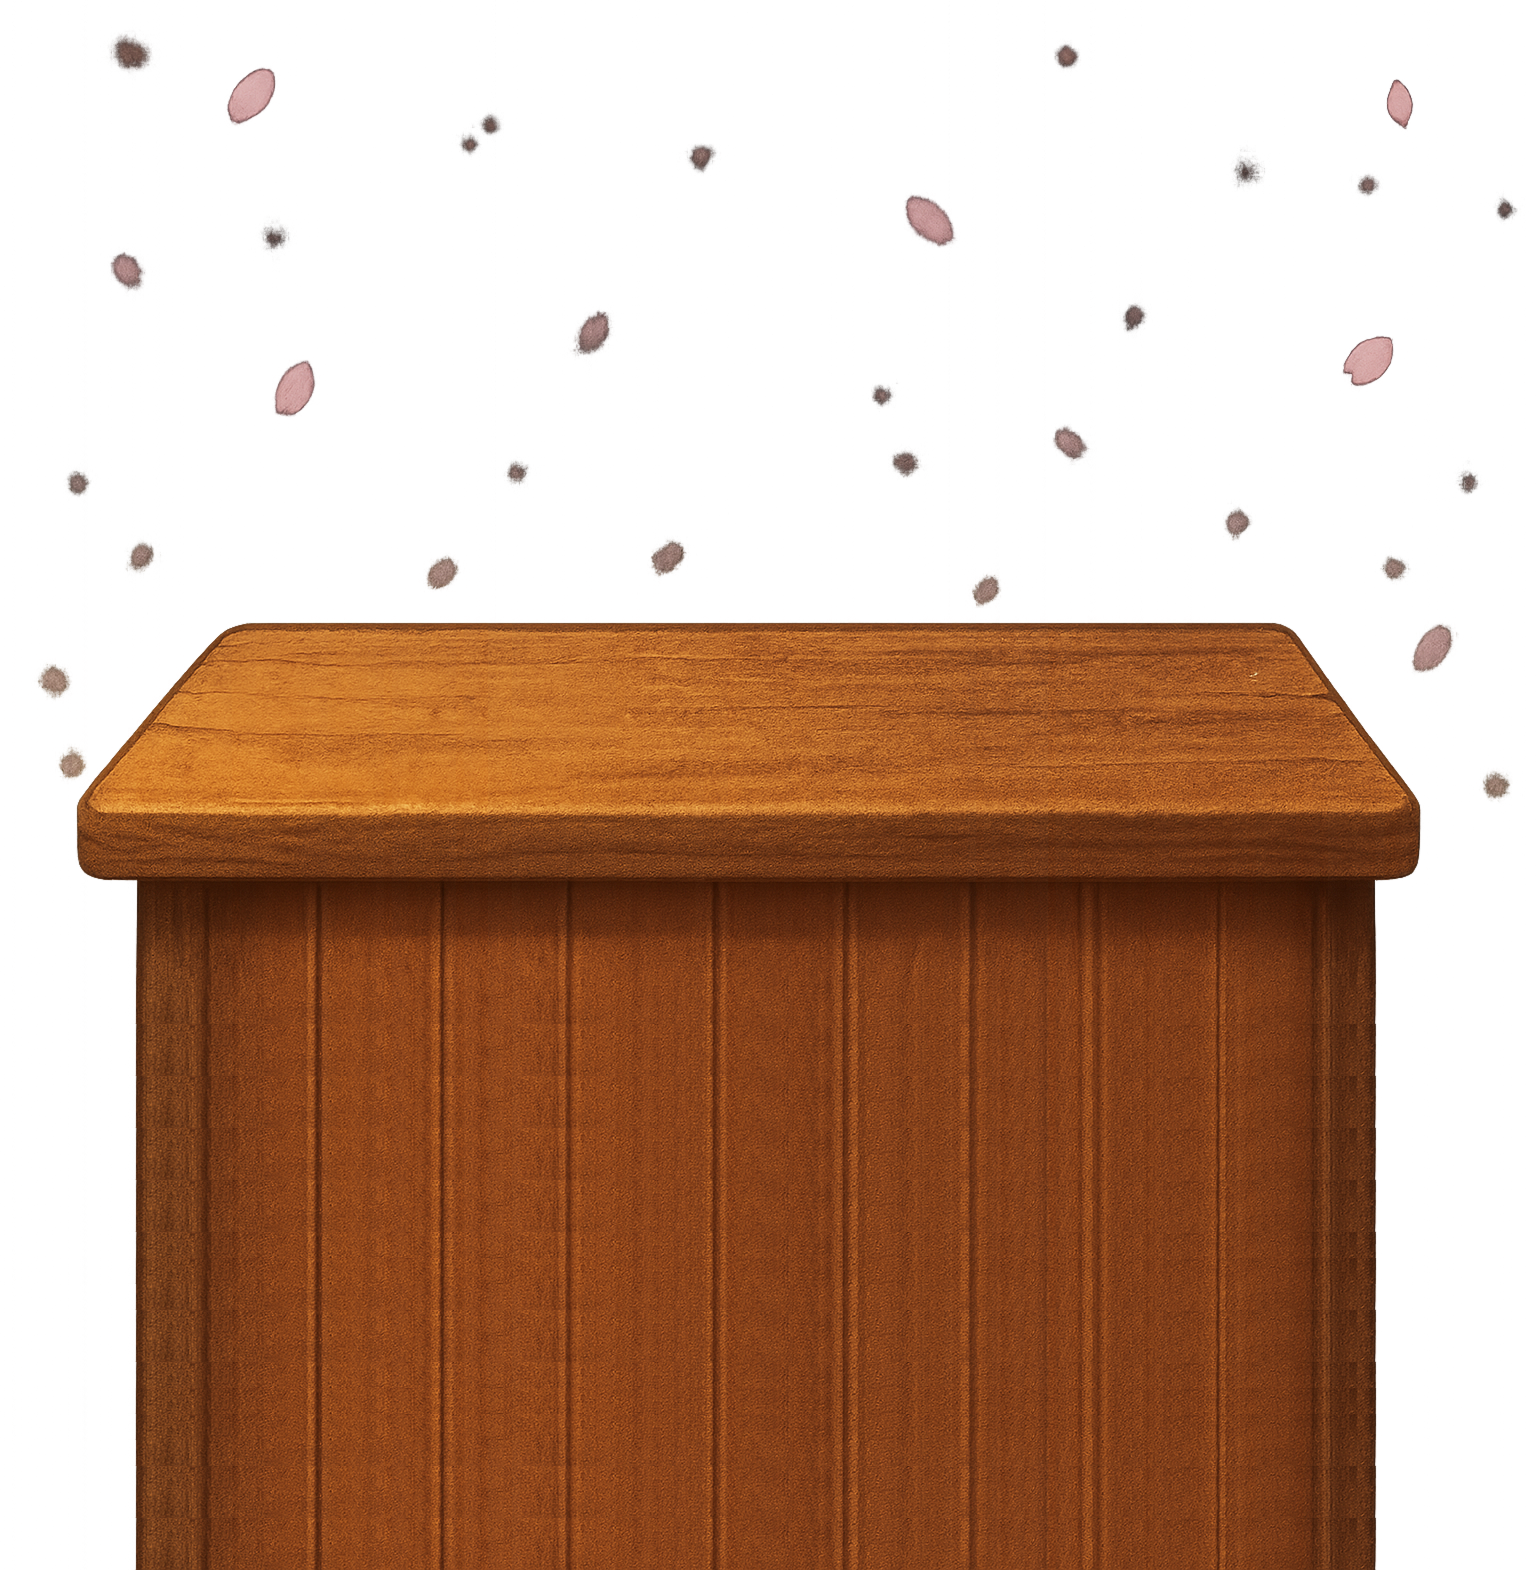
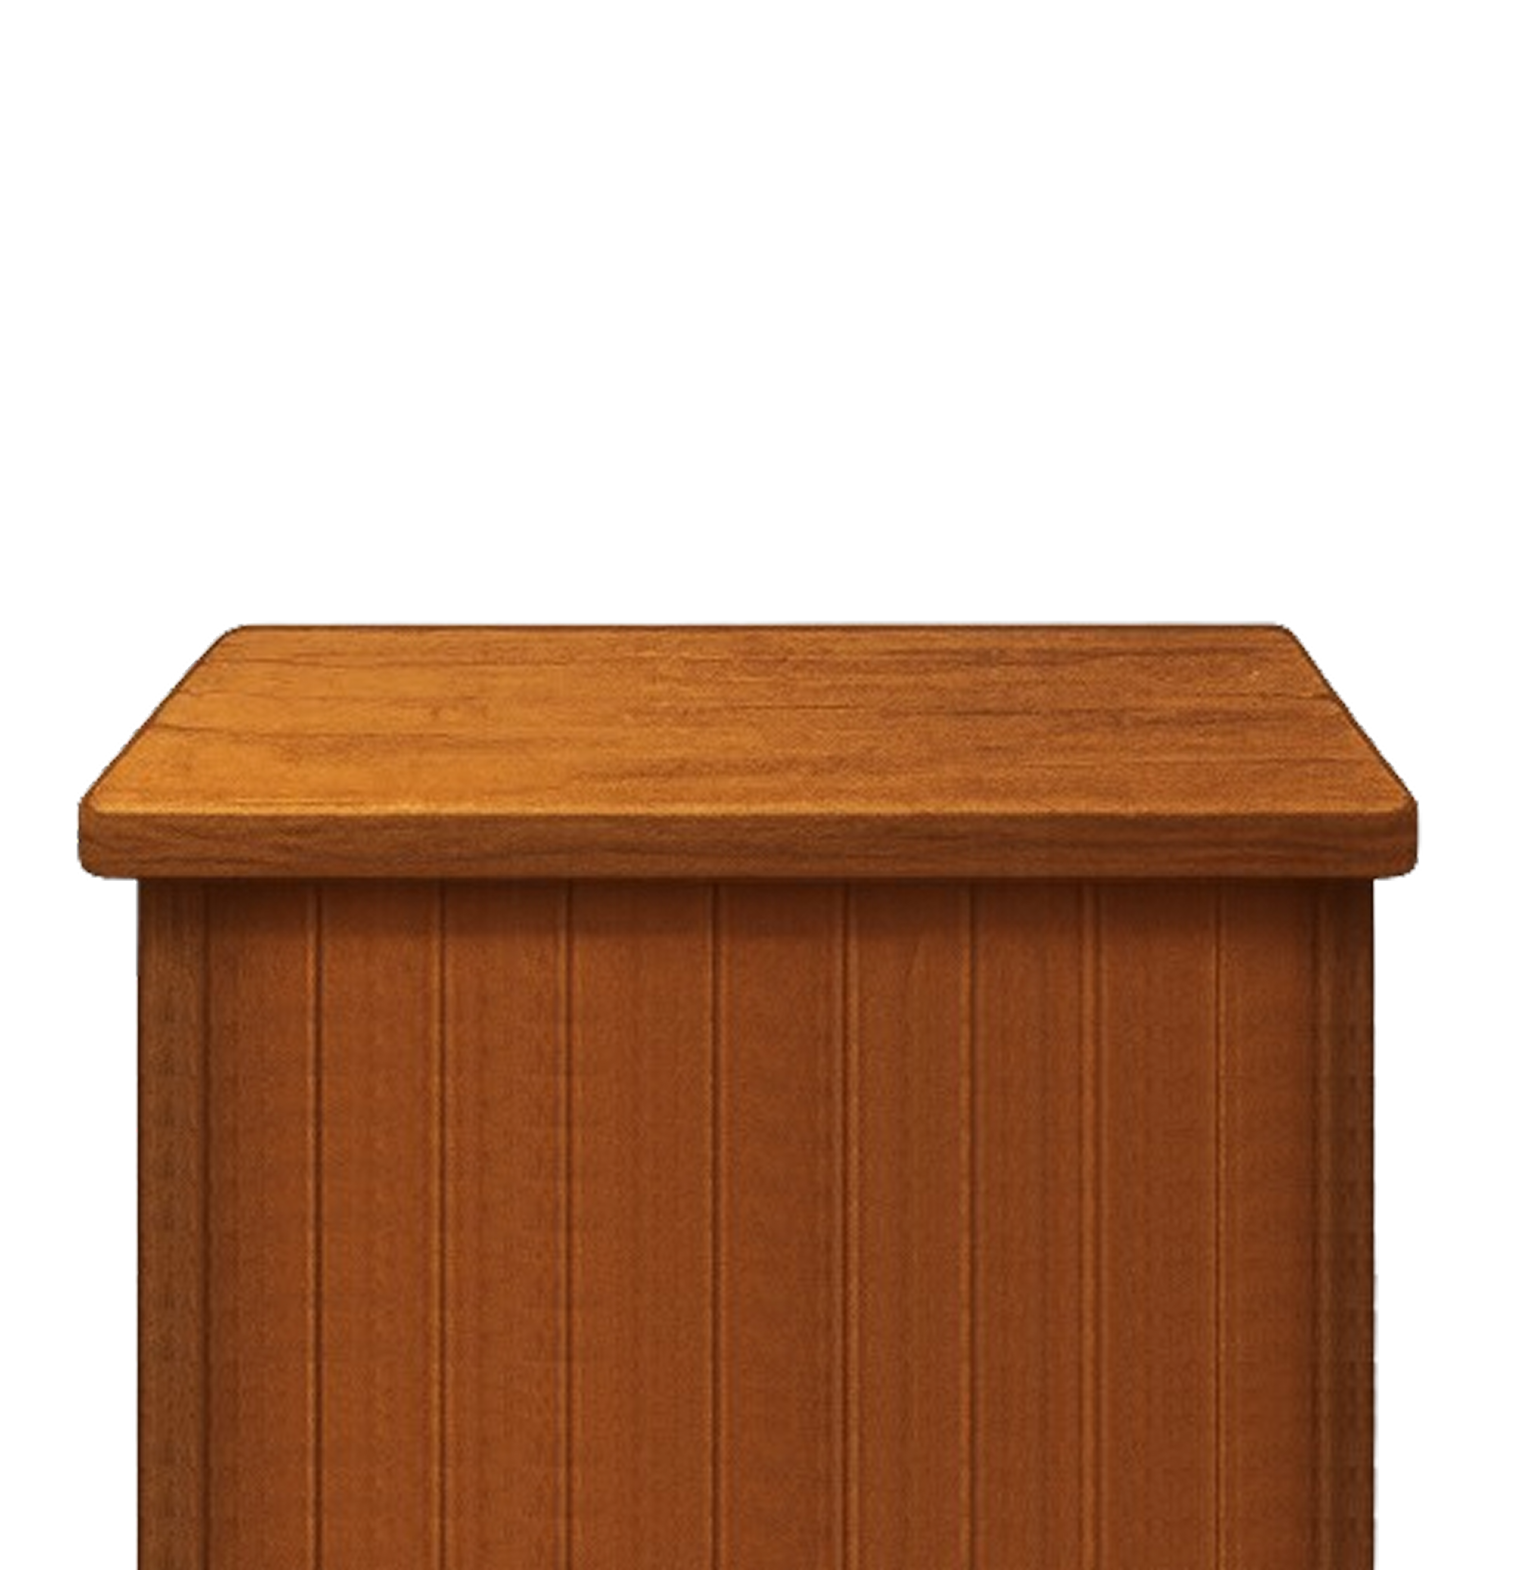
design: 배경 이미지 넣기

diff --git a/src/scenes/GameScene.ts b/src/scenes/GameScene.ts
@@ -54,6 +54,7 @@ export class GameScene extends Phaser.Scene {
 
   preload() {
     // 기존 에셋들
+    this.load.image('background', 'assets/background.png');
     this.load.image('button', 'assets/button.png');
     this.load.image('tent', 'assets/tent.png');
     this.load.image('plate', 'assets/plate.png');
@@ -140,8 +141,9 @@ export class GameScene extends Phaser.Scene {
   }
 
   create() {
+    this.add.image(400, 300, 'background').setScale(0.8).setDepth(0);
     this.add.image(400, 130, 'tent').setScale(0.3);
-    this.add.image(650, 450, 'waiting-table').setScale(0.29).setDepth(2);
+    this.add.image(650, 430, 'waiting-table').setScale(0.29).setDepth(2);
     this.add.image(240, 435, 'table').setScale(0.25).setDepth(3);
 
     this.createTopUI();
